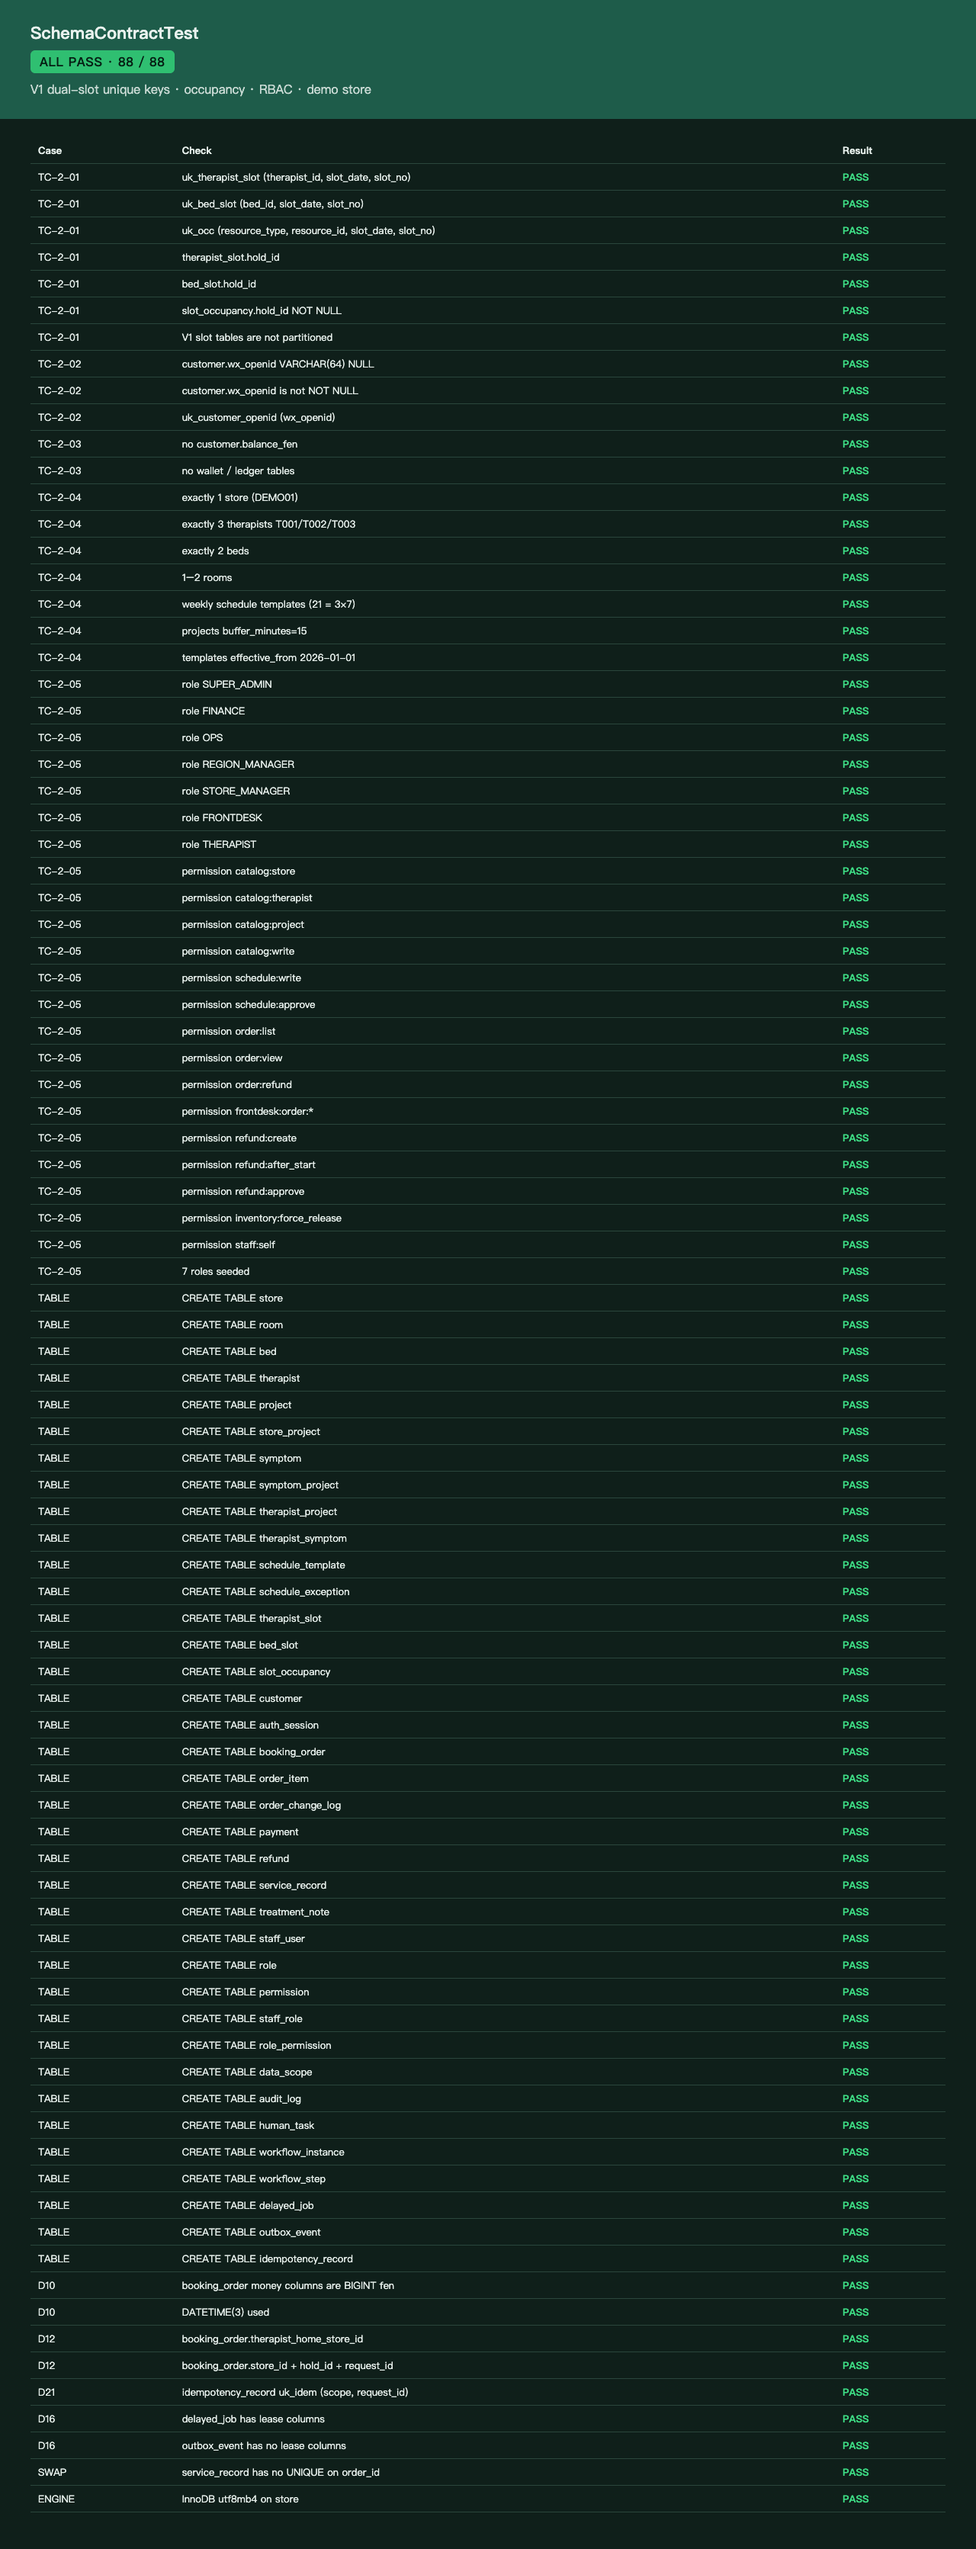
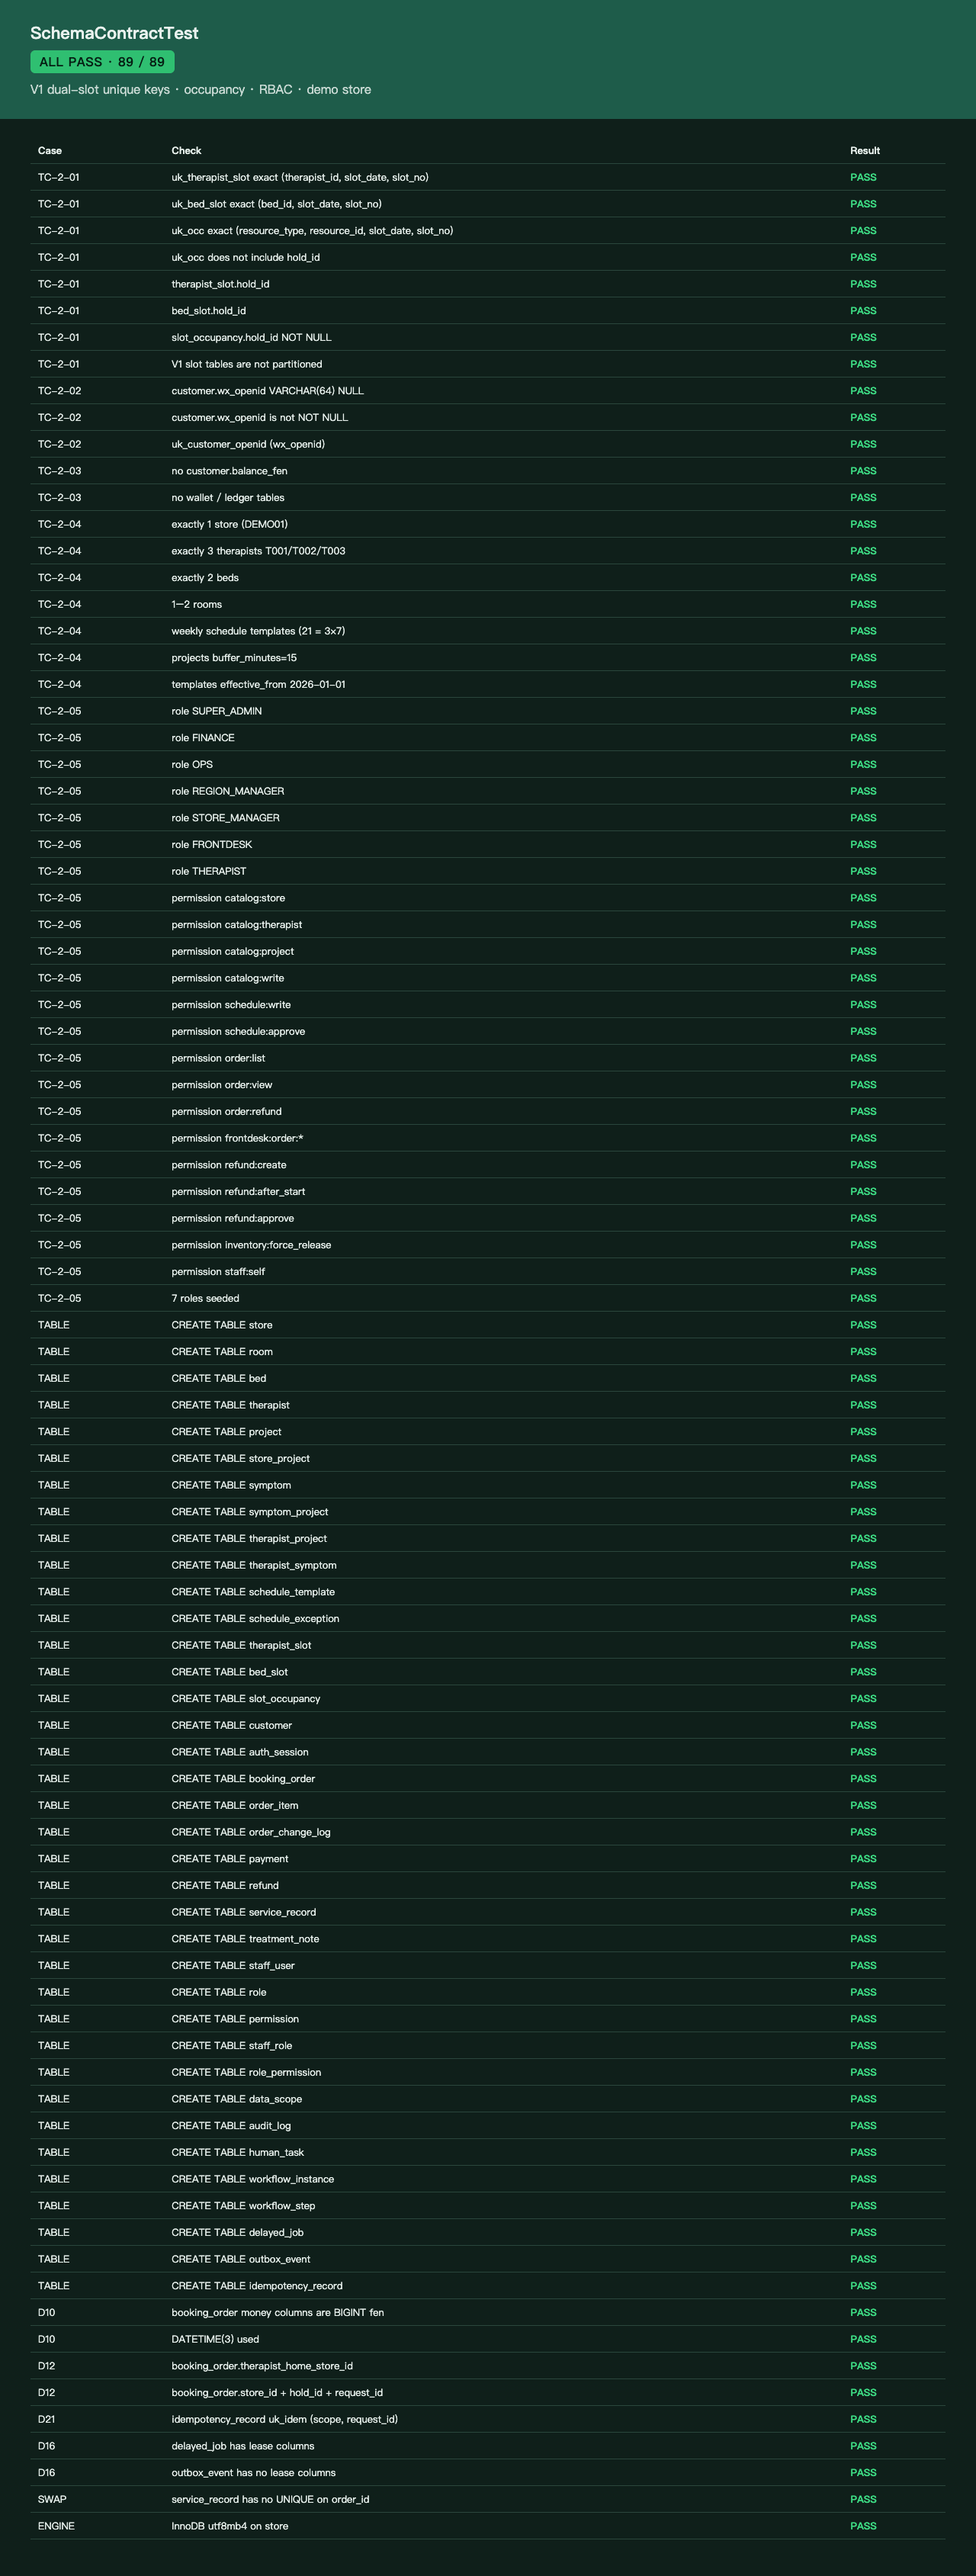
fix: address review feedback for feat(db): P0 schema

Changed region(s): [[0.1562, 0.0311, 0.4375, 0.9955], [0.8438, 0.0622, 0.9062, 0.9955], [0.0312, 0.0311, 0.0938, 0.9955]]

diff --git a/docs/test-cases/schema-contract-report.html b/docs/test-cases/schema-contract-report.html
@@ -22,16 +22,17 @@
 <body>
   <header>
     <h1>SchemaContractTest</h1>
-    <span class="badge ">ALL PASS · 88 / 88</span>
+    <span class="badge ">ALL PASS · 89 / 89</span>
     <p style="margin:10px 0 0;opacity:.85">V1 dual-slot unique keys · occupancy · RBAC · demo store</p>
   </header>
   <main>
     <table>
       <thead><tr><th>Case</th><th>Check</th><th>Result</th></tr></thead>
       <tbody>
-<tr class='ok'><td>TC-2-01</td><td>uk_therapist_slot (therapist_id, slot_date, slot_no)</td><td>PASS</td></tr>
-<tr class='ok'><td>TC-2-01</td><td>uk_bed_slot (bed_id, slot_date, slot_no)</td><td>PASS</td></tr>
-<tr class='ok'><td>TC-2-01</td><td>uk_occ (resource_type, resource_id, slot_date, slot_no)</td><td>PASS</td></tr>
+<tr class='ok'><td>TC-2-01</td><td>uk_therapist_slot exact (therapist_id, slot_date, slot_no)</td><td>PASS</td></tr>
+<tr class='ok'><td>TC-2-01</td><td>uk_bed_slot exact (bed_id, slot_date, slot_no)</td><td>PASS</td></tr>
+<tr class='ok'><td>TC-2-01</td><td>uk_occ exact (resource_type, resource_id, slot_date, slot_no)</td><td>PASS</td></tr>
+<tr class='ok'><td>TC-2-01</td><td>uk_occ does not include hold_id</td><td>PASS</td></tr>
 <tr class='ok'><td>TC-2-01</td><td>therapist_slot.hold_id</td><td>PASS</td></tr>
 <tr class='ok'><td>TC-2-01</td><td>bed_slot.hold_id</td><td>PASS</td></tr>
 <tr class='ok'><td>TC-2-01</td><td>slot_occupancy.hold_id NOT NULL</td><td>PASS</td></tr>

diff --git a/server/src/test/java/com/jisuodashi/db/SchemaContractTest.java b/server/src/test/java/com/jisuodashi/db/SchemaContractTest.java
@@ -82,12 +82,17 @@ class SchemaContractTest {
     }
 
     private static void tc201DualSlotAndOccupancy() {
-        check("TC-2-01", "uk_therapist_slot (therapist_id, slot_date, slot_no)",
-                contains(v1, "UNIQUE KEY uk_therapist_slot (therapist_id, slot_date, slot_no)"));
-        check("TC-2-01", "uk_bed_slot (bed_id, slot_date, slot_no)",
-                contains(v1, "UNIQUE KEY uk_bed_slot (bed_id, slot_date, slot_no)"));
-        check("TC-2-01", "uk_occ (resource_type, resource_id, slot_date, slot_no)",
-                contains(v1, "UNIQUE KEY uk_occ (resource_type, resource_id, slot_date, slot_no)"));
+        List<String> ukTherapistSlot = uniqueKeyColumns(v1, "therapist_slot", "uk_therapist_slot");
+        List<String> ukBedSlot = uniqueKeyColumns(v1, "bed_slot", "uk_bed_slot");
+        List<String> ukOcc = uniqueKeyColumns(v1, "slot_occupancy", "uk_occ");
+        check("TC-2-01", "uk_therapist_slot exact (therapist_id, slot_date, slot_no)",
+                ukTherapistSlot.equals(List.of("therapist_id", "slot_date", "slot_no")));
+        check("TC-2-01", "uk_bed_slot exact (bed_id, slot_date, slot_no)",
+                ukBedSlot.equals(List.of("bed_id", "slot_date", "slot_no")));
+        check("TC-2-01", "uk_occ exact (resource_type, resource_id, slot_date, slot_no)",
+                ukOcc.equals(List.of("resource_type", "resource_id", "slot_date", "slot_no")));
+        check("TC-2-01", "uk_occ does not include hold_id",
+                !ukOcc.isEmpty() && !ukOcc.contains("hold_id"));
         check("TC-2-01", "therapist_slot.hold_id",
                 tableHasColumn(v1, "therapist_slot", "hold_id"));
         check("TC-2-01", "bed_slot.hold_id",
@@ -342,14 +347,6 @@ class SchemaContractTest {
         return resource.getContentAsString(StandardCharsets.UTF_8);
     }
 
-    private static boolean contains(String sql, String needle) {
-        return normalize(sql).contains(normalize(needle));
-    }
-
-    private static String normalize(String s) {
-        return s.replaceAll("\\s+", " ");
-    }
-
     private static boolean hasCreateTable(String sql, String table) {
         return Pattern.compile("CREATE TABLE\\s+" + table + "\\s*\\(", Pattern.CASE_INSENSITIVE)
                 .matcher(sql).find();
@@ -365,6 +362,24 @@ class SchemaContractTest {
     private static boolean tableHasColumn(String sql, String table, String column) {
         return Pattern.compile("(?m)^\\s*" + column + "\\s+", Pattern.CASE_INSENSITIVE)
                 .matcher(tableBody(sql, table)).find();
+    }
+
+    /** Column list of a named UNIQUE KEY; empty if the key is missing. Exact order, trimmed. */
+    private static List<String> uniqueKeyColumns(String sql, String table, String keyName) {
+        Matcher uk = Pattern.compile(
+                "UNIQUE KEY\\s+" + Pattern.quote(keyName) + "\\s*\\(([^)]+)\\)",
+                Pattern.CASE_INSENSITIVE).matcher(tableBody(sql, table));
+        if (!uk.find()) {
+            return List.of();
+        }
+        List<String> cols = new ArrayList<>();
+        for (String part : uk.group(1).split(",")) {
+            String col = part.trim();
+            if (!col.isEmpty()) {
+                cols.add(col);
+            }
+        }
+        return List.copyOf(cols);
     }
 
     private static int countInsertRows(String sql, String table) {

diff --git a/docs/test-cases/pr-2.md b/docs/test-cases/pr-2.md
@@ -14,7 +14,7 @@
   - `UNIQUE KEY uk_occ (resource_type, resource_id, slot_date, slot_no)`
   - `therapist_slot.hold_id` / `bed_slot.hold_id` / `slot_occupancy.hold_id NOT NULL`
   - 无 `PARTITION BY`（D24）
-- **实际结果**：PASS。`SchemaContractTest` 88/88。Surefire：`Tests run: 1, Failures: 0, Errors: 0`（契约）+ `MuscleMasterApplicationTests` `Tests run: 2`。合计 `Tests run: 3, Failures: 0, Errors: 0`。
+- **实际结果**：PASS。`SchemaContractTest` 89/89（含 unique 列精确相等 + `uk_occ` 不含 `hold_id`）。Surefire：`Tests run: 1, Failures: 0, Errors: 0`（契约）+ `MuscleMasterApplicationTests` `Tests run: 2`。合计 `Tests run: 3, Failures: 0, Errors: 0`。
 
 ![SchemaContractTest ALL PASS](screenshots/pr-2-schema-contract.png)
 
@@ -48,4 +48,4 @@
 
 ![schema preview](screenshots/pr-2-schema-preview.png)
 
-`scripts/verify-schema.sh` 在本机因无 Docker/MySQL 以 exit 2 退出并提示改跑契约测试；有 compose MySQL 时会 `CREATE` + 查 `information_schema`。
+`scripts/verify-schema.sh` 在本机因无 Docker/MySQL 以 exit 2 退出并提示改跑契约测试。有 compose MySQL 时 **destructive**：DROP+CREATE 独立库 `muscle_master_verify`（不碰 `muscle_master`），再 apply V1–V3 并查 `information_schema`（含 `uk_occ` 列精确等于 `resource_type,resource_id,slot_date,slot_no`）。

diff --git a/README.md b/README.md
@@ -47,7 +47,7 @@ npm run dev          # http://127.0.0.1:5173/health
 
 ## Schema（Flyway V1–V3）
 
-P0 全量 DDL 在 `server/src/main/resources/db/migration/`：`V1__init.sql`（双资源 slot **不分区**）、`V2__rbac_seed.sql`、`V3__demo_store.sql`（1 店 / 3 技师 / 2 床 / 周模板）。默认 profile 对 MySQL 开 Flyway。`dev` 的 H2 **关 Flyway**（DDL 含 VARBINARY / DATETIME(3) / JSON，不为 H2 削 schema）。无 Docker 时用 `SchemaContractTest` 断言 SQL 文本；有 compose MySQL 时跑 `scripts/verify-schema.sh`。预览：`docs/test-cases/schema-preview.html`。
+P0 全量 DDL 在 `server/src/main/resources/db/migration/`：`V1__init.sql`（双资源 slot **不分区**）、`V2__rbac_seed.sql`、`V3__demo_store.sql`（1 店 / 3 技师 / 2 床 / 周模板）。默认 profile 对 MySQL 开 Flyway。`dev` 的 H2 **关 Flyway**（DDL 含 VARBINARY / DATETIME(3) / JSON，不为 H2 削 schema）。无 Docker 时用 `SchemaContractTest` 断言 SQL 文本；有 compose MySQL 时跑 `scripts/verify-schema.sh`（**destructive**：DROP+CREATE 独立库 `muscle_master_verify`，不碰 `muscle_master` / Flyway 历史）。预览：`docs/test-cases/schema-preview.html`。
 
 ## Docker Compose（有 Docker 的机器）
 
